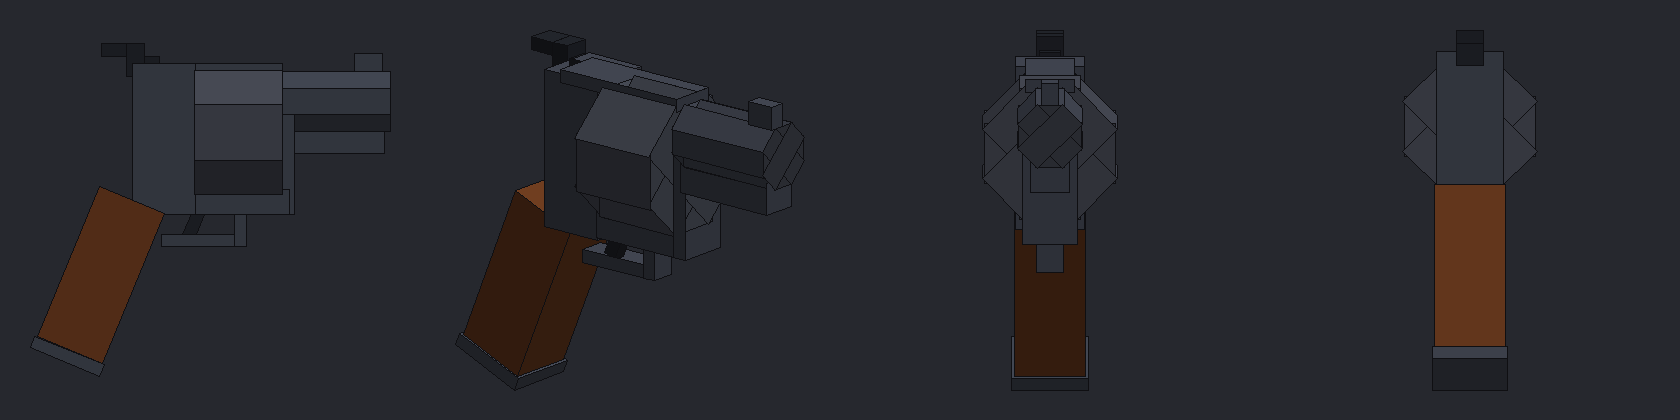
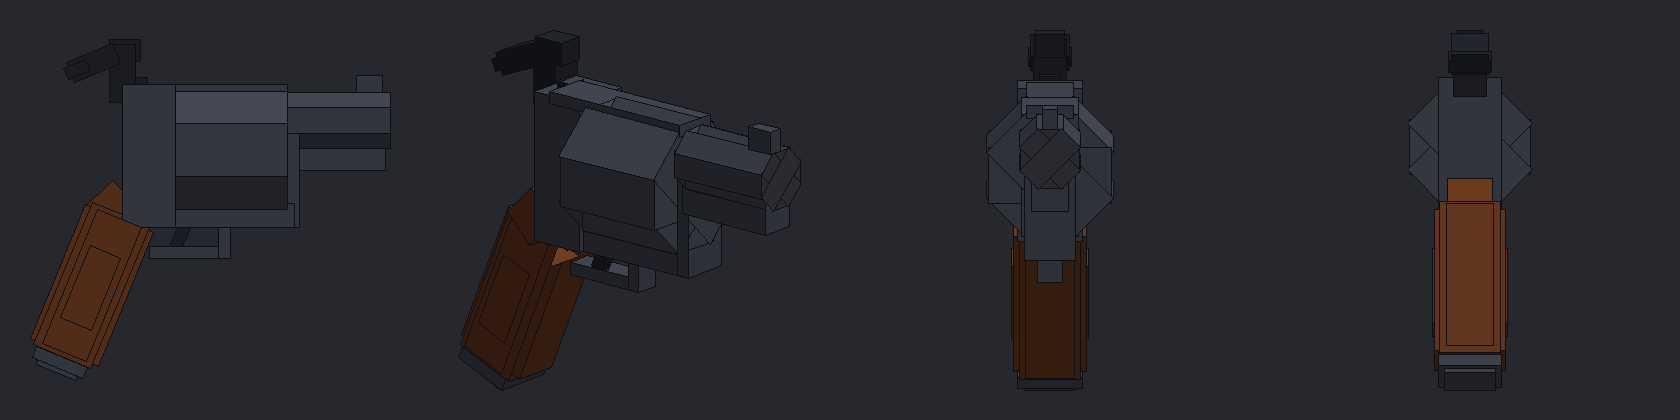
Rounder grip, bigger hammer, longer cylinder
Claude-Session: https://claude.ai/code/session_01G8stAj2NsEdEgKC46eLYfu

diff --git a/tools/make_pack.py b/tools/make_pack.py
@@ -82,29 +82,38 @@ def round_prism(cx, cy, diameter, z0, z1, tex, end_tex=None):
         box((cx - w, cy - r, z0), (cx + w, cy + r, z1), tex, ft, rot)
 
 # barrel: short and fat (snubnose), lined up with the top chamber
-round_prism(8, 13.0, 4.6, -4.0, 4.6, "metal", end_tex="bore")
-box((6.6, 8.8, -3.6), (9.4, 11.2, 4.6), "metal")                 # full underlug
-box((7.4, 15.0, -3.4), (8.6, 16.8, -1.2), "metal")               # front sight blade
-# cylinder: fat and fluted
-round_prism(8, 10.5, 9.6, 4.6, 11.6, "cylinder")
-box((7.0, 9.5, 4.2), (9.0, 11.5, 4.7), "brass")                  # cylinder pin / ejector star
+round_prism(8, 13.0, 4.6, -6.0, 2.7, "metal", end_tex="bore")
+box((6.6, 8.8, -5.6), (9.4, 11.2, 2.7), "metal")                 # full underlug
+box((7.4, 15.0, -5.4), (8.6, 16.8, -3.2), "metal")               # front sight blade
+# cylinder: fat, fluted and long
+round_prism(8, 10.5, 9.6, 2.6, 12.0, "cylinder")
+box((7.0, 9.5, 2.2), (9.0, 11.5, 2.7), "brass")                  # cylinder pin / ejector star
 # frame
-box((6.0, 4.0, 3.6), (10.0, 13.0, 4.7), "metal")                 # front of frame (yoke)
-box((6.0, 4.0, 4.0), (10.0, 6.0, 12.0), "metal")                 # under the cylinder
-box((6.2, 15.0, 4.6), (9.8, 16.0, 15.6), "metal")                # top strap
-box((5.5, 4.0, 11.5), (10.5, 16.0, 16.5), "metal")               # recoil shield / rear frame
+box((6.0, 4.0, 1.6), (10.0, 13.0, 2.7), "metal")                 # front of frame (yoke)
+box((6.0, 4.0, 2.0), (10.0, 6.0, 12.0), "metal")                 # under the cylinder
+box((6.2, 15.0, 2.6), (9.8, 16.0, 15.6), "metal")                # top strap
+box((5.5, 4.0, 12.0), (10.5, 16.0, 16.5), "metal")               # recoil shield / rear frame
 box((7.2, 16.0, 14.4), (8.8, 16.6, 15.6), "dark")                # rear sight notch block
-# hammer with a spur
-box((7.0, 15.0, 15.6), (9.0, 17.6, 17.0), "dark")
-box((7.0, 16.6, 17.0), (9.0, 17.6, 19.0), "dark")
+# hammer: big, with a long checkered spur sweeping back
+box((6.7, 14.5, 15.4), (9.3, 19.4, 17.6), "dark")                # hammer body
+box((6.9, 18.0, 15.0), (9.1, 19.8, 17.6), "dark")                # rounded top of the hammer
+HAMMER_ROT = ("x", 22.5, (8, 18.6, 17.4))
+box((6.5, 17.6, 17.0), (9.5, 19.4, 21.2), "dark", rot=HAMMER_ROT)   # spur, tipped down at the back
+box((6.3, 18.0, 19.6), (9.7, 19.0, 21.6), "dark", rot=HAMMER_ROT)   # wide thumb pad at the end of the spur
 # trigger guard and trigger
 box((7.0, 1.4, 7.4), (9.0, 2.4, 14.2), "metal")
 box((7.0, 1.4, 7.4), (9.0, 5.6, 8.4), "metal")
 box((7.5, 2.0, 10.4), (8.5, 5.4, 11.4), "dark", rot=("x", -22.5, (8, 5, 11)))
-# grip, raked back, with a steel butt cap
+# grip, raked back, rounded: a core plus a wider-but-shallower and a deeper-but-narrower slab,
+# so the corners read as rounded from every side, with a palm swell and a rounded steel butt cap
 GRIP_ROT = ("x", -22.5, (8, 6, 16))
-box((5.4, -8.0, 13.4), (10.6, 5.0, 19.0), "wood", rot=GRIP_ROT)
-box((5.2, -9.0, 13.2), (10.8, -8.0, 19.2), "metal", rot=GRIP_ROT)
+box((5.6, -8.0, 13.6), (10.4, 5.0, 18.8), "wood", rot=GRIP_ROT)      # core
+box((5.2, -7.6, 14.2), (10.8, 4.6, 18.2), "wood", rot=GRIP_ROT)      # sides bulge out
+box((6.1, -7.6, 13.1), (9.9, 4.6, 19.3), "wood", rot=GRIP_ROT)       # front and back bulge out
+box((5.0, -5.0, 14.8), (11.0, 1.5, 17.6), "wood", rot=GRIP_ROT)      # palm swell
+box((5.5, -9.0, 13.9), (10.5, -8.0, 18.5), "metal", rot=GRIP_ROT)    # butt cap
+box((6.0, -9.4, 14.4), (10.0, -9.0, 18.0), "metal", rot=GRIP_ROT)    # butt cap rounding
+box((6.2, 3.0, 16.0), (9.8, 6.5, 19.2), "wood", rot=("x", -45, (8, 5, 16.5)))   # backstrap curve up into the frame
 box((6.5, 4.0, 12.8), (9.5, 6.0, 16.0), "metal")                  # grip frame strap under the hammer
 
 # ---------------- maths for preview + auto-centring ----------------
